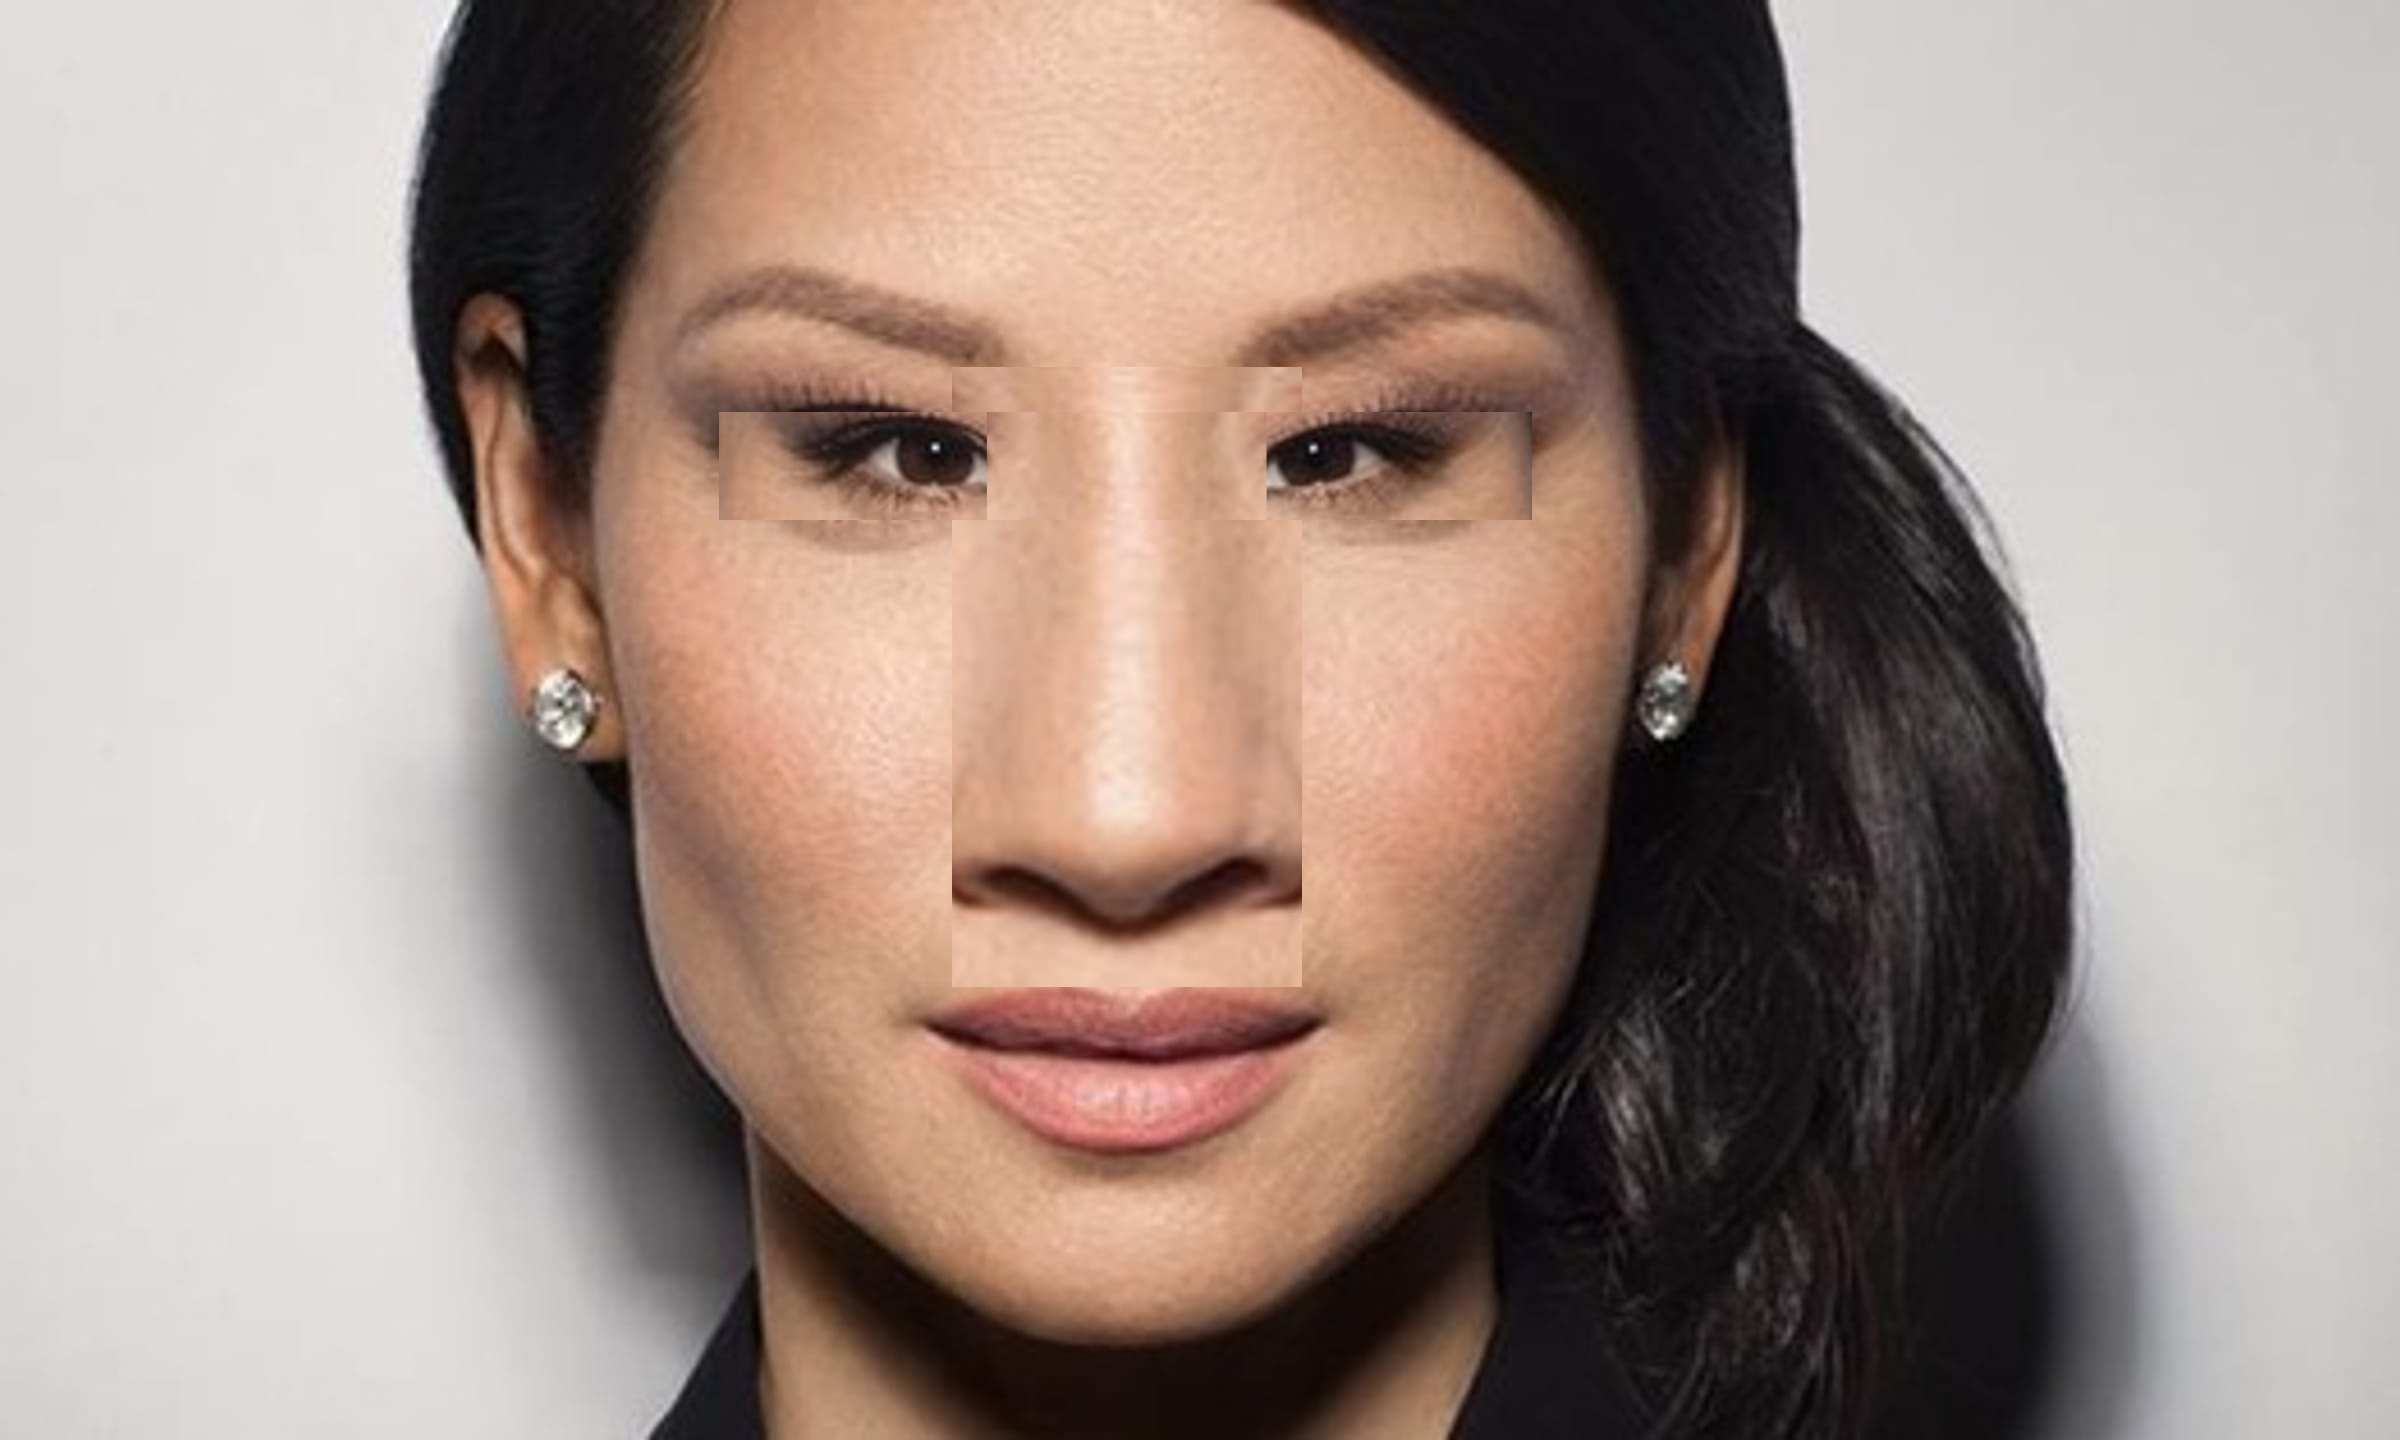
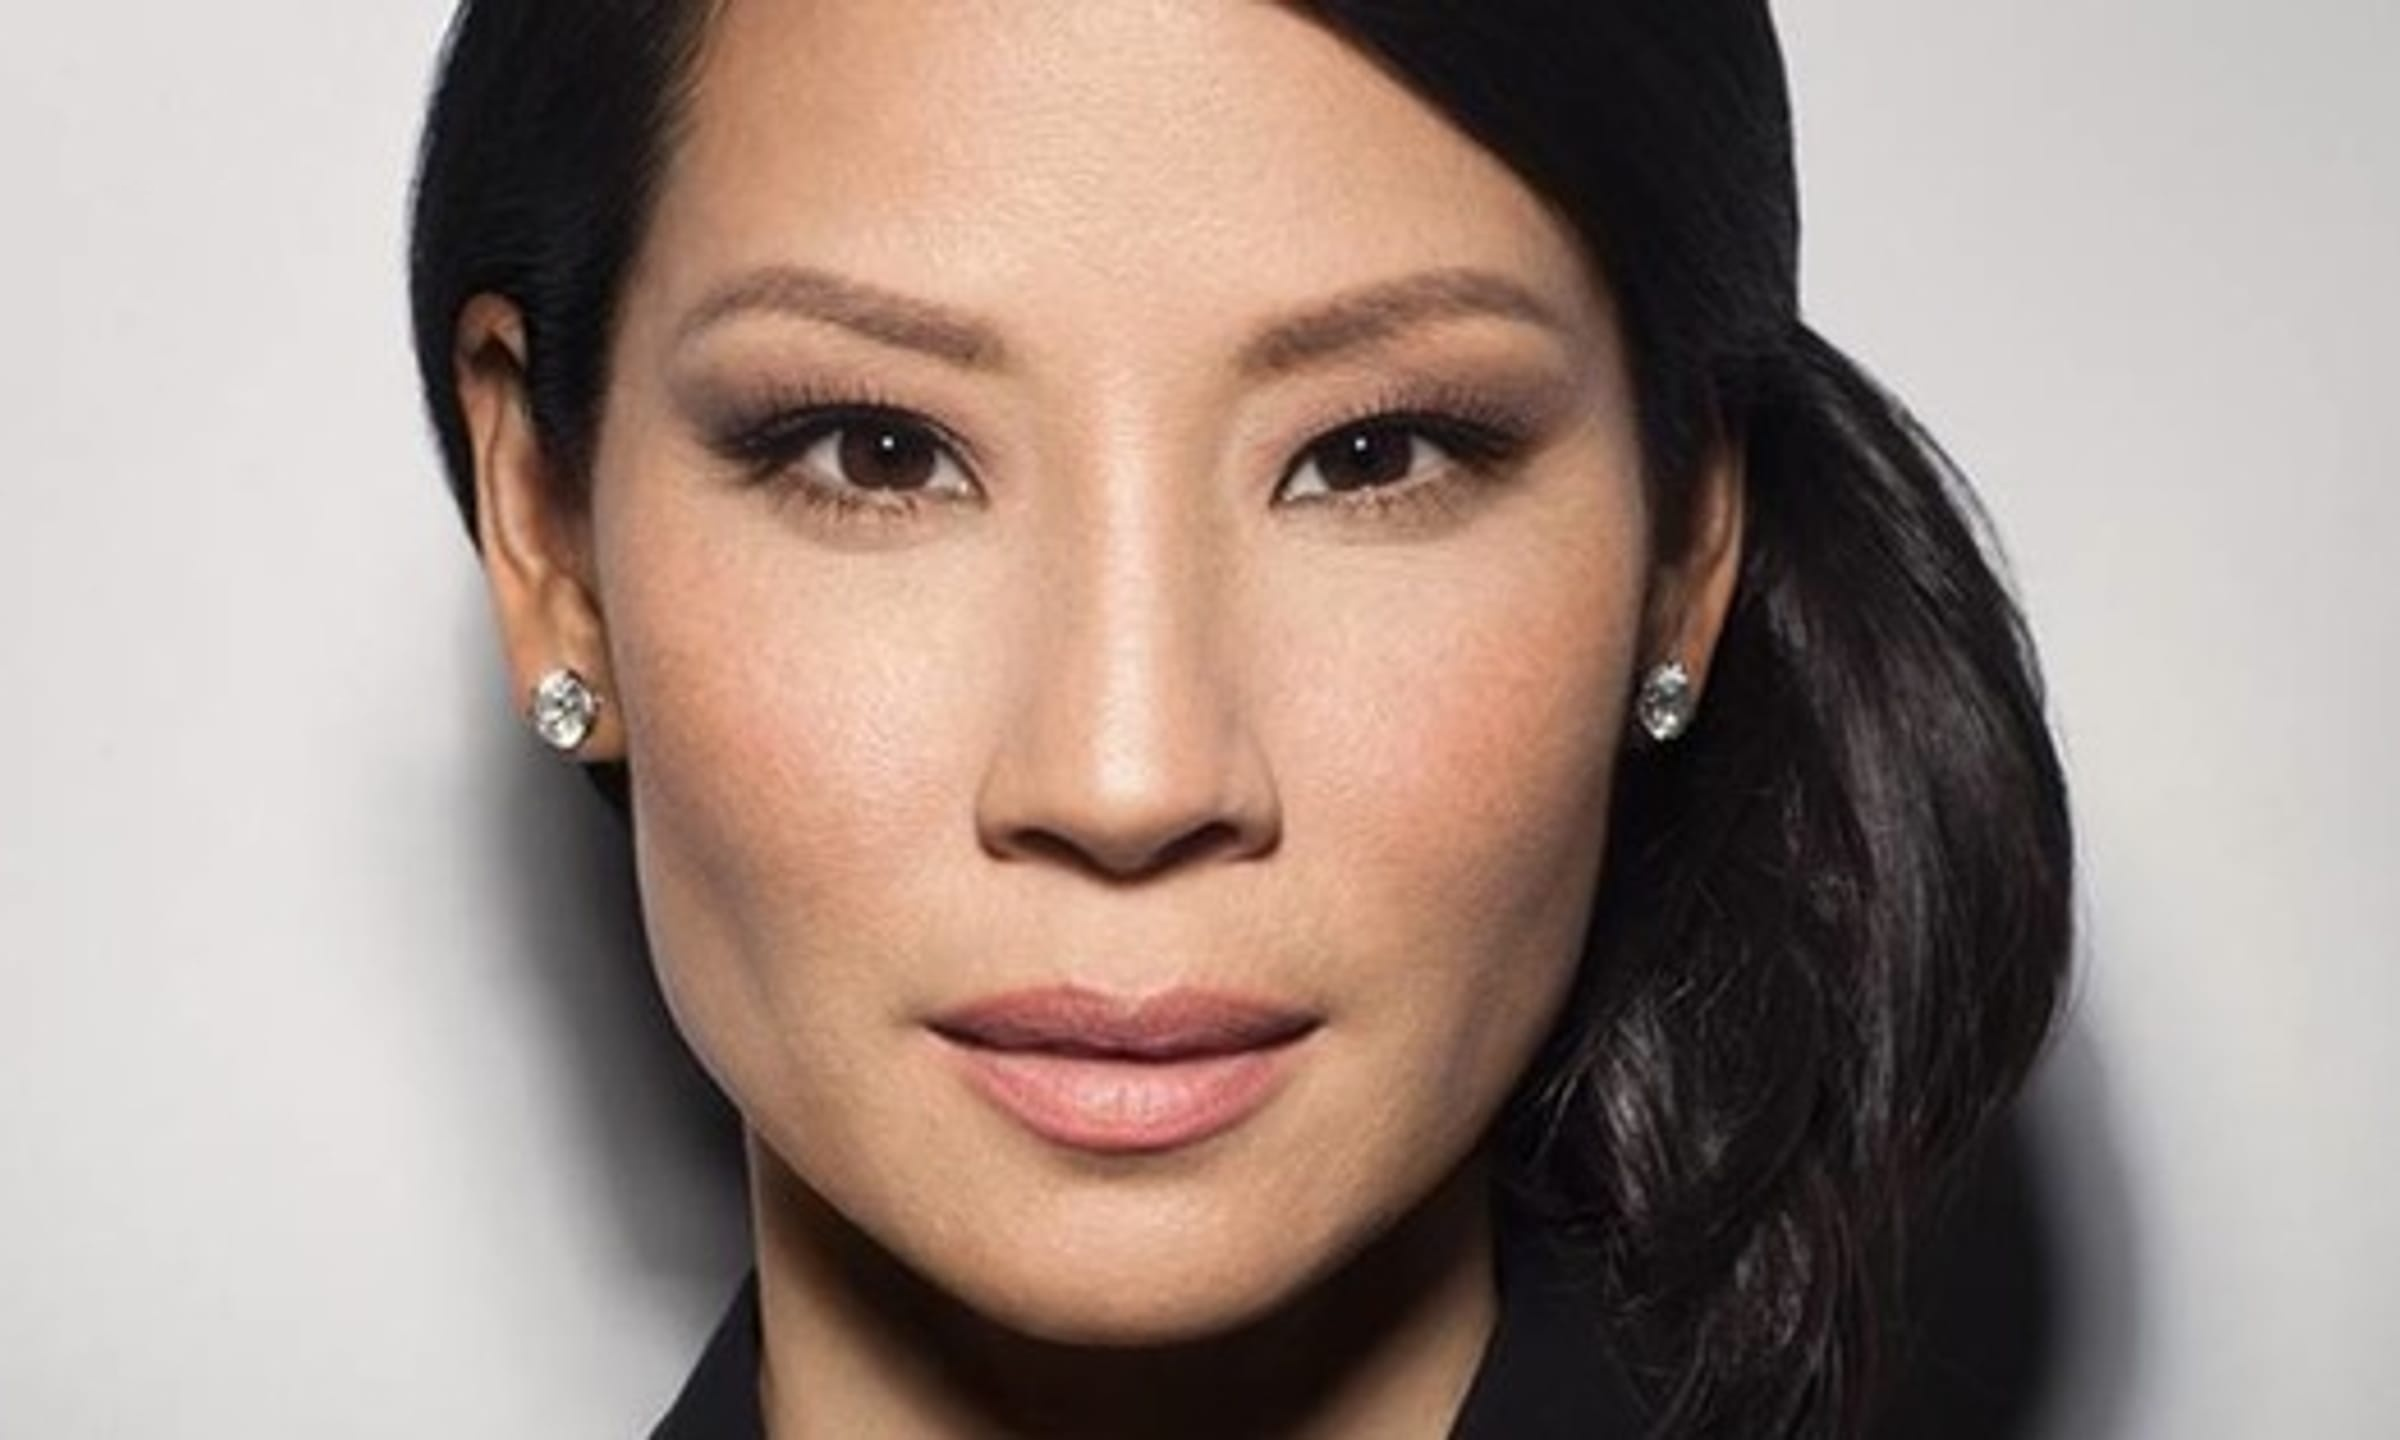
Blended in nose, and added comments.

Changed region(s): [[0.375, 0.5312, 0.5625, 0.6875], [0.5, 0.25, 0.6562, 0.375], [0.2812, 0.2812, 0.4375, 0.375]]

diff --git a/Augmentation_Project/Augmenting_Features.py b/Augmentation_Project/Augmenting_Features.py
@@ -51,8 +51,7 @@ def load_feature_landmarks(facial_features, image_id, feature_to_int, feature_na
 
 def resize_nose(img, facial_features, image_id, feature_to_int, scale_factor):
     nose_landmarks = load_feature_landmarks(facial_features, image_id, feature_to_int, 'nose')
-    return resize_and_overlay_feature(img, nose_landmarks, scale_factor, width_margin_factor=0.8,
-
+    return resize_and_overlay_feature(img, nose_landmarks, scale_factor, width_margin_factor=0.6,
                                       height_margin_factor=0.7)
 
 
@@ -103,8 +102,6 @@ def resize_and_overlay_feature(img, feature_points, scale_factor, width_margin_f
     # Calculates the overlay starting vertical margin for where the resized feature should be placed.
     # Discarding the fractional part to ensure whole integers for coordinates.
     overlay_start_y = y_min + (feature_height - scaled_height) // 2
-
-    # Places resized image over the original image.
     img[overlay_start_y:overlay_start_y + scaled_height,
     overlay_start_x:overlay_start_x + scaled_width] = scaled_feature
     return img
@@ -162,7 +159,7 @@ def main():
         nose_landmarks = load_feature_landmarks(facial_features, image_id, feature_to_int, 'nose')
 
         # the margins here for the mask affect where the bounds of the box are.
-        nose_mask = create_nose_mask(original_img, nose_landmarks, width_margin_factor=0.4, height_margin_factor=0.075)
+        nose_mask = create_nose_mask(original_img, nose_landmarks, width_margin_factor=0.4, height_margin_factor=0.1)
 
         # blurs the nose region, the kernel size changes the blur amount
         # ksize (0,0)  -> (width, height)
